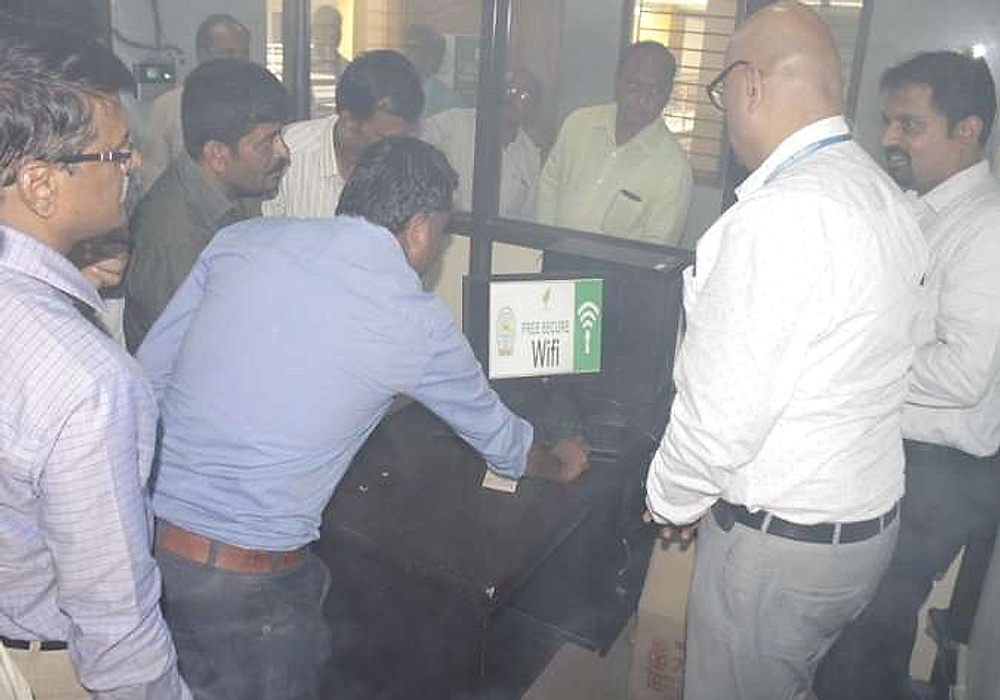
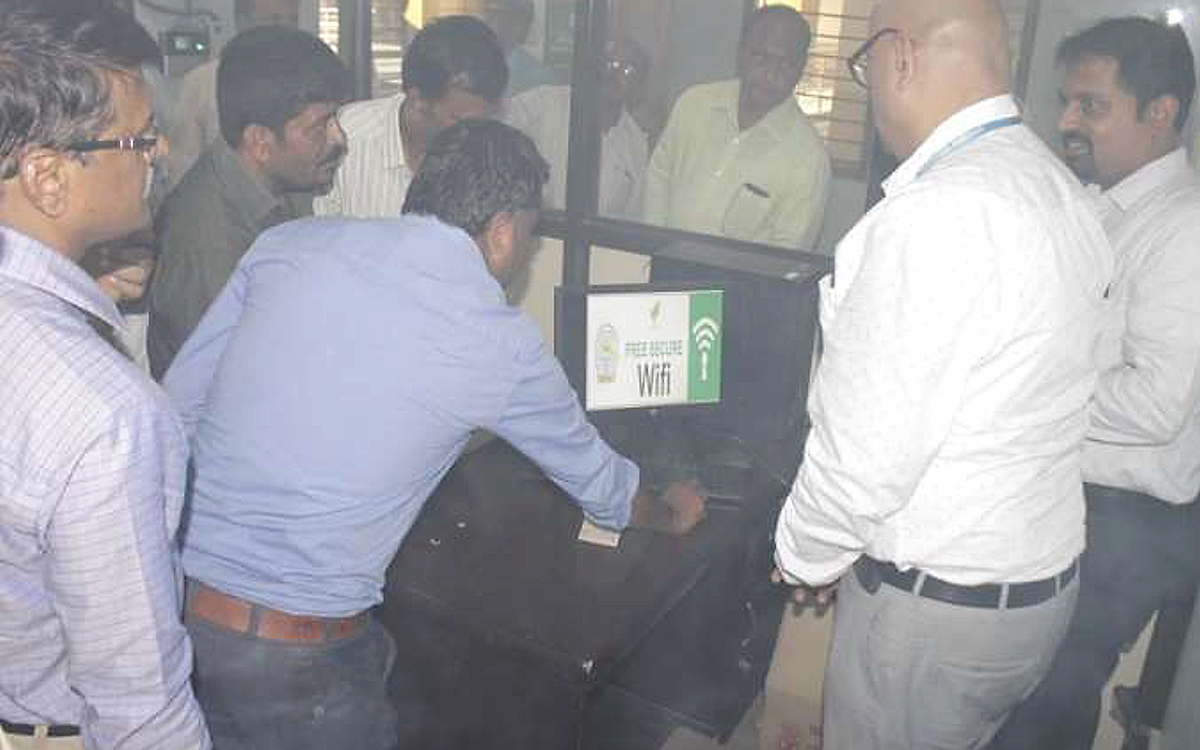
fix(clients): crop and calibrate all client project photos to 16:10 standard and remove intrusive badge overlaps

diff --git a/src/app/clients/page.tsx b/src/app/clients/page.tsx
@@ -464,7 +464,7 @@ export default function ClientsPage() {
                 <div>
                   {/* Photo Container */}
                   <div
-                    className="relative aspect-16/10 w-full overflow-hidden bg-slate-900 cursor-pointer"
+                    className="relative aspect-16/10 w-full overflow-hidden bg-slate-950 cursor-pointer"
                     onClick={() => openLightbox(photo.image, photo.title, `${photo.client} • ${photo.location} — ${photo.caption}`)}
                   >
                     <ImageReveal className="w-full h-full relative" duration={0.6}>
@@ -476,25 +476,9 @@ export default function ClientsPage() {
                         className="object-cover group-hover:scale-105 transition-transform duration-500"
                       />
                     </ImageReveal>
-                    <div className="absolute inset-0 bg-linear-to-t from-black/60 via-transparent to-transparent opacity-80 group-hover:opacity-60 transition-opacity pointer-events-none" />
-
-                    {/* Top badging */}
-                    <div className="absolute top-3 left-3 right-3 flex items-center justify-between gap-2 pointer-events-none">
-                      <span className="text-[10px] font-bold uppercase tracking-wider bg-white/95 text-brand-navy px-2.5 py-1 rounded-full shadow-md backdrop-blur-xs flex items-center gap-1">
-                        {photo.sectorTag === "solar" && <Sun className="w-3 h-3 text-amber-500" />}
-                        {photo.sectorTag === "datacenter" && <Server className="w-3 h-3 text-blue-600" />}
-                        {photo.sectorTag === "campus" && <Network className="w-3 h-3 text-emerald-600" />}
-                        {photo.sectorTag === "auditorium" && <Tv className="w-3 h-3 text-purple-600" />}
-                        {photo.sectorTag === "healthcare" && <Hospital className="w-3 h-3 text-rose-600" />}
-                        <span>{photo.category}</span>
-                      </span>
-                      <span className="text-[10px] font-medium bg-black/60 text-white/90 px-2 py-0.5 rounded-full backdrop-blur-xs">
-                        {photo.location}
-                      </span>
-                    </div>
 
                     {/* Expand overlay */}
-                    <div className="absolute inset-0 bg-brand-navy/40 opacity-0 group-hover:opacity-100 transition-opacity flex items-center justify-center">
+                    <div className="absolute inset-0 bg-brand-navy/30 opacity-0 group-hover:opacity-100 transition-opacity flex items-center justify-center pointer-events-none">
                       <span className="inline-flex items-center gap-2 px-3.5 py-2 rounded-xl bg-white/95 text-xs font-bold text-brand-navy shadow-lg transform -translate-y-1 group-hover:translate-y-0 transition-transform">
                         <Maximize2 className="w-3.5 h-3.5 text-brand-blue" />
                         <span>Click to Enlarge Photo</span>
@@ -503,19 +487,37 @@ export default function ClientsPage() {
                   </div>
 
                   {/* Photo Body */}
-                  <div className="p-5 space-y-2.5">
-                    <p className="text-[11px] font-bold text-brand-blue uppercase tracking-wider">
-                      {photo.client}
-                    </p>
-                    <h3 className="text-base font-bold font-heading text-brand-navy leading-snug group-hover:text-brand-blue transition-colors">
-                      {photo.title}
-                    </h3>
+                  <div className="p-5 space-y-3">
+                    {/* Category & Location Badges */}
+                    <div className="flex items-center justify-between gap-2">
+                      <span className="text-[11px] font-bold uppercase tracking-wider text-brand-navy/90 flex items-center gap-1.5 bg-slate-100 px-2.5 py-1 rounded-md border border-slate-200">
+                        {photo.sectorTag === "solar" && <Sun className="w-3.5 h-3.5 text-amber-500" />}
+                        {photo.sectorTag === "datacenter" && <Server className="w-3.5 h-3.5 text-blue-600" />}
+                        {photo.sectorTag === "campus" && <Network className="w-3.5 h-3.5 text-emerald-600" />}
+                        {photo.sectorTag === "auditorium" && <Tv className="w-3.5 h-3.5 text-purple-600" />}
+                        {photo.sectorTag === "healthcare" && <Hospital className="w-3.5 h-3.5 text-rose-600" />}
+                        <span>{photo.category}</span>
+                      </span>
+                      <span className="text-[10px] font-medium text-slate-500 bg-slate-50 px-2 py-0.5 rounded-md border border-slate-200/80">
+                        {photo.location}
+                      </span>
+                    </div>
+
+                    <div>
+                      <p className="text-[11px] font-extrabold text-brand-blue uppercase tracking-wider">
+                        {photo.client}
+                      </p>
+                      <h3 className="text-base font-bold font-heading text-brand-navy leading-snug group-hover:text-brand-blue transition-colors mt-0.5">
+                        {photo.title}
+                      </h3>
+                    </div>
+
                     <p className="text-xs text-brand-secondary leading-relaxed line-clamp-3">
                       {photo.caption}
                     </p>
 
                     {/* Highlights Tags */}
-                    <div className="pt-2 flex flex-wrap gap-1.5">
+                    <div className="pt-1 flex flex-wrap gap-1.5">
                       {photo.highlights.map((h, i) => (
                         <span
                           key={i}

diff --git a/src/data/projects.ts b/src/data/projects.ts
@@ -55,7 +55,7 @@ export const PROJECTS_DATA: ProjectItem[] = [
     category: "Networking & Infrastructure",
     client: "University of Agricultural Sciences (UAS), Raichur Campus",
     executedThrough: "KEONICS (Karnataka State Electronics Development Corporation Ltd.)",
-    image: "/projects/project-campus-fiber-handover.png",
+    image: "/clients/photos/uas-raichur-noc-monitoring.jpg",
     secondaryImage: "/clients/photos/uas-raichur-datacenter-inauguration.jpg",
     description:
       "Supply, installation, and multi-year maintenance contract for campus-wide optical fiber networking, managed switching matrices, high-density Wi-Fi solutions, and integrated CCTV surveillance connecting 14 academic and administrative buildings.",
@@ -151,10 +151,10 @@ export const INSTALLATION_GALLERY: GalleryItem[] = [
   },
   {
     id: "gal-5",
-    title: "Campus Optical Fiber Network Handover",
+    title: "Tumkur University Academic Computing Laboratory",
     category: "Campus Network",
-    image: "/clients/photos/sjbit-campus-fiber-handover.jpg",
-    caption: "Handover ceremony for the 14-building optical fiber and Wi-Fi campus infrastructure.",
+    image: "/clients/photos/tumkur-computer-lab.jpg",
+    caption: "High-density institutional computer laboratory deployment with structured Cat6 cabling and gigabit switching backbone.",
   },
   {
     id: "gal-6",
